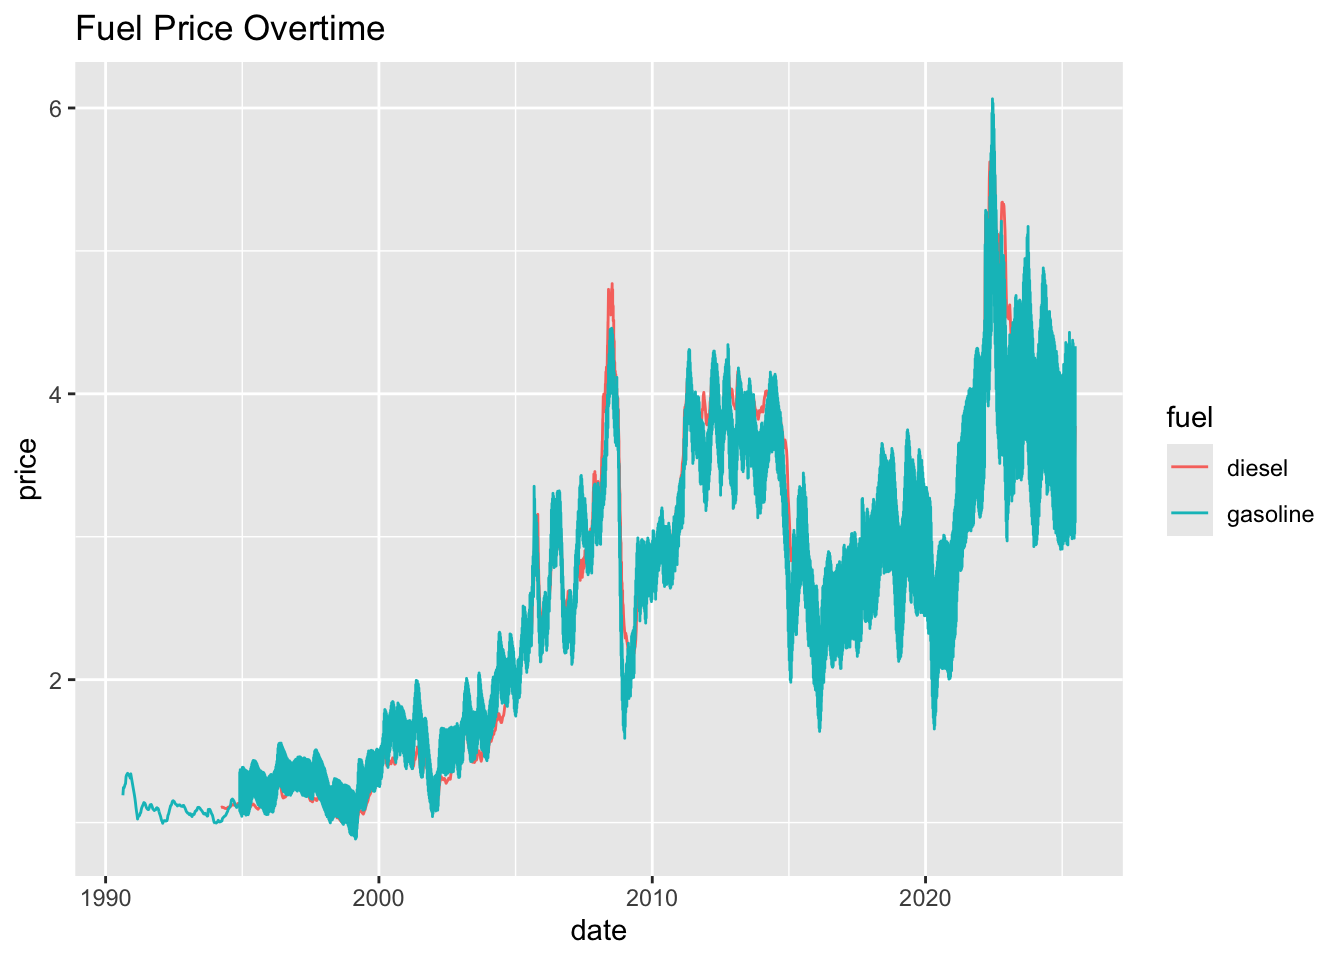
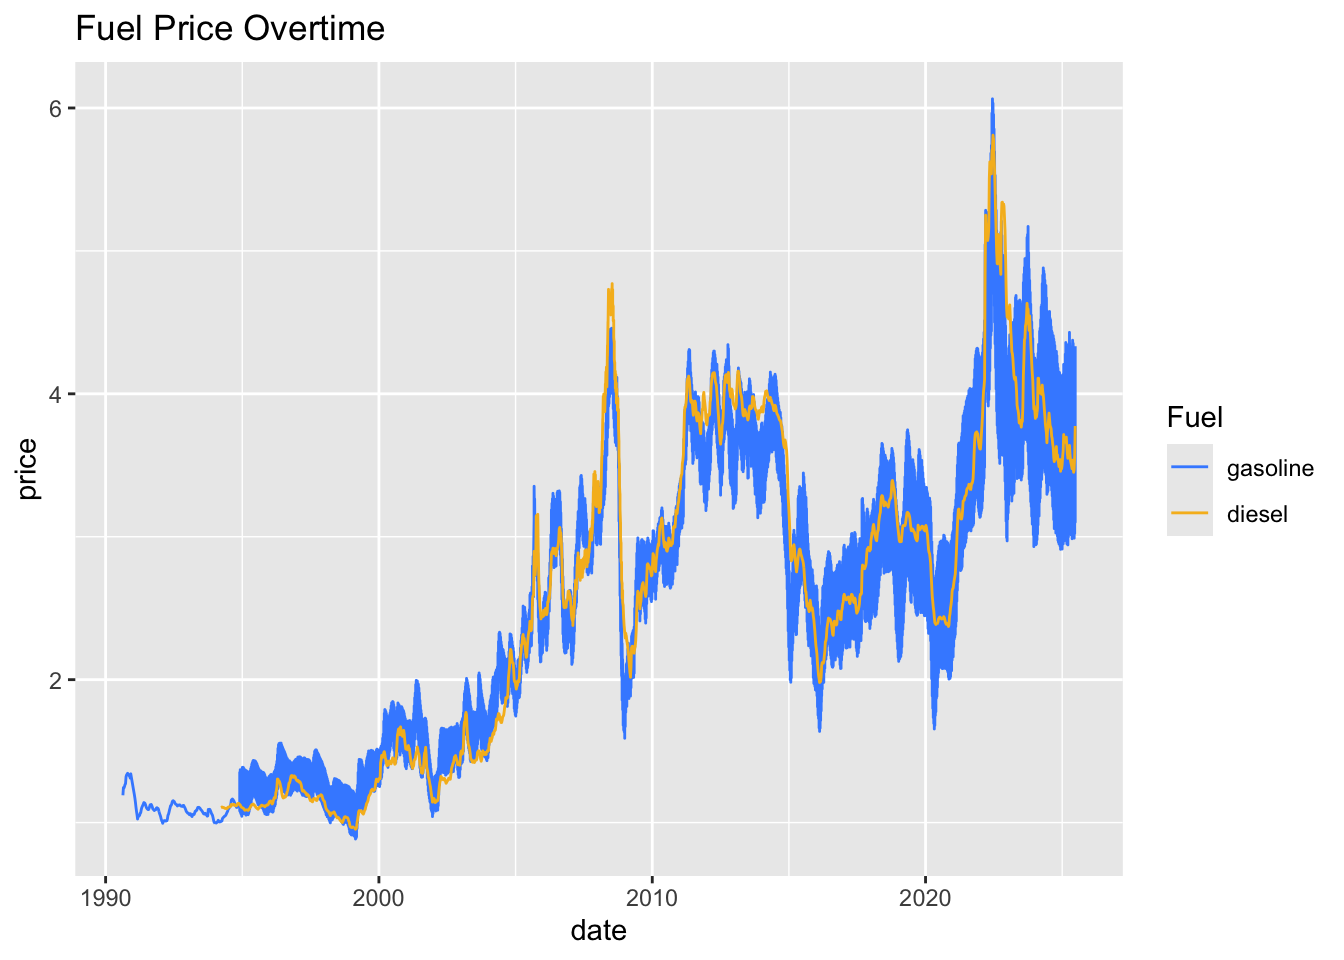
gas fixed

diff --git a/docs/gas.html b/docs/gas.html
@@ -168,7 +168,12 @@ pre > code.sourceCode > span > a:first-child::before { text-decoration: underlin
     <h2 id="toc-title">On this page</h2>
    
   <ul>
-  <li><a href="#the-data" id="toc-the-data" class="nav-link active" data-scroll-target="#the-data">The Data</a></li>
+  <li><a href="#the-data" id="toc-the-data" class="nav-link active" data-scroll-target="#the-data">The Data</a>
+  <ul class="collapse">
+  <li><a href="#basic-prices-overtime-comparison" id="toc-basic-prices-overtime-comparison" class="nav-link" data-scroll-target="#basic-prices-overtime-comparison">Basic Prices Overtime Comparison</a></li>
+  <li><a href="#prices-by-fuel-type-grade-and-formulation" id="toc-prices-by-fuel-type-grade-and-formulation" class="nav-link" data-scroll-target="#prices-by-fuel-type-grade-and-formulation">Prices by Fuel Type, Grade, and Formulation</a></li>
+  <li><a href="#price-distribution" id="toc-price-distribution" class="nav-link" data-scroll-target="#price-distribution">Price Distribution</a></li>
+  </ul></li>
   </ul>
 </nav>
     </div>
@@ -216,13 +221,15 @@ pre > code.sourceCode > span > a:first-child::before { text-decoration: underlin
 <p>Retrieved from TidyTuesday:<br>
 https://github.com/rfordatascience/tidytuesday/tree/main/data/2025/2025-07-01</p>
 <p>The data is originally from the U.S. Energy Information Administration (EIA), which publishes average retail gasoline and diesel prices weekly.</p>
-<p>Prices over time basic comparison</p>
+<section id="basic-prices-overtime-comparison" class="level3">
+<h3 class="anchored" data-anchor-id="basic-prices-overtime-comparison">Basic Prices Overtime Comparison</h3>
 <div class="cell">
 <details class="code-fold">
 <summary>Code</summary>
-<div class="code-copy-outer-scaffold"><div class="sourceCode cell-code" id="cb1"><pre class="sourceCode r code-with-copy"><code class="sourceCode r"><span id="cb1-1"><a href="#cb1-1" aria-hidden="true" tabindex="-1"></a><span class="fu">ggplot</span>(weekly_gas, <span class="fu">aes</span>(<span class="at">x=</span>date, <span class="at">y=</span>price, <span class="at">color=</span>fuel)) <span class="sc">+</span></span>
-<span id="cb1-2"><a href="#cb1-2" aria-hidden="true" tabindex="-1"></a>  <span class="fu">geom_line</span>() <span class="sc">+</span> </span>
-<span id="cb1-3"><a href="#cb1-3" aria-hidden="true" tabindex="-1"></a>  <span class="fu">labs</span>(<span class="at">title =</span> <span class="st">"Fuel Price Overtime"</span>)</span></code></pre></div><button title="Copy to Clipboard" class="code-copy-button"><i class="bi"></i></button></div>
+<div class="code-copy-outer-scaffold"><div class="sourceCode cell-code" id="cb1"><pre class="sourceCode r code-with-copy"><code class="sourceCode r"><span id="cb1-1"><a href="#cb1-1" aria-hidden="true" tabindex="-1"></a><span class="fu">ggplot</span>(weekly_gas, <span class="fu">aes</span>(<span class="at">x=</span>date, <span class="at">y=</span>price, <span class="at">color=</span><span class="fu">fct_relevel</span>(fuel, <span class="st">"gasoline"</span>, <span class="st">"diesel"</span>))) <span class="sc">+</span></span>
+<span id="cb1-2"><a href="#cb1-2" aria-hidden="true" tabindex="-1"></a>  <span class="fu">geom_line</span>() <span class="sc">+</span></span>
+<span id="cb1-3"><a href="#cb1-3" aria-hidden="true" tabindex="-1"></a>  <span class="fu">scale_color_manual</span>(<span class="at">values =</span> <span class="fu">c</span>(<span class="st">"gasoline"</span> <span class="ot">=</span> <span class="st">"#438eff"</span>, <span class="st">"diesel"</span> <span class="ot">=</span> <span class="st">"#f6ba21"</span>)) <span class="sc">+</span></span>
+<span id="cb1-4"><a href="#cb1-4" aria-hidden="true" tabindex="-1"></a>  <span class="fu">labs</span>(<span class="at">title =</span> <span class="st">"Fuel Price Overtime"</span>, <span class="at">color =</span> <span class="st">"Fuel"</span>)</span></code></pre></div><button title="Copy to Clipboard" class="code-copy-button"><i class="bi"></i></button></div>
 </details>
 <div class="cell-output-display">
 <div>
@@ -232,22 +239,23 @@ https://github.com/rfordatascience/tidytuesday/tree/main/data/2025/2025-07-01</p
 </div>
 </div>
 </div>
-<div class="cell">
-<details class="code-fold">
-<summary>Code</summary>
-<div class="code-copy-outer-scaffold"><div class="sourceCode cell-code" id="cb2"><pre class="sourceCode r code-with-copy"><code class="sourceCode r"><span id="cb2-1"><a href="#cb2-1" aria-hidden="true" tabindex="-1"></a><span class="fu">ggplot</span>(weekly_gas, <span class="fu">aes</span>(<span class="at">x=</span>date, <span class="at">y=</span>price, <span class="at">color=</span>fuel)) <span class="sc">+</span></span>
-<span id="cb2-2"><a href="#cb2-2" aria-hidden="true" tabindex="-1"></a>  <span class="fu">geom_line</span>() <span class="sc">+</span> </span>
-<span id="cb2-3"><a href="#cb2-3" aria-hidden="true" tabindex="-1"></a>  <span class="fu">facet_wrap</span>(<span class="sc">~</span>fuel) <span class="sc">+</span> </span>
-<span id="cb2-4"><a href="#cb2-4" aria-hidden="true" tabindex="-1"></a>  <span class="fu">labs</span>(<span class="at">title =</span> <span class="st">"Fuel Price Overtime by Fuel"</span>)</span></code></pre></div><button title="Copy to Clipboard" class="code-copy-button"><i class="bi"></i></button></div>
-</details>
-<div class="cell-output-display">
-<div>
-<figure class="figure">
-<p><img src="gas_files/figure-html/unnamed-chunk-3-1.png" class="img-fluid figure-img" width="672"></p>
-</figure>
-</div>
-</div>
-</div>
+<!--
+
+::: {.cell}
+
+```{.r .cell-code}
+ggplot(weekly_gas, aes(x=date, y=price, color=fuel)) +
+  geom_line() + 
+  facet_wrap(~fuel) + 
+  labs(title = "Fuel Price Overtime by Fuel")
+```
+
+::: {.cell-output-display}
+![](gas_files/figure-html/unnamed-chunk-3-1.png){width=672}
+:::
+:::
+
+-->
 <!--
 Prices by Grade (ALL)
 
@@ -281,16 +289,18 @@ ggplot(weekly_gas, aes(x=date, y=price, color=grade)) +
 :::
 
 -->
-<p>Prices by Fuel Type and Grade</p>
+</section>
+<section id="prices-by-fuel-type-grade-and-formulation" class="level3">
+<h3 class="anchored" data-anchor-id="prices-by-fuel-type-grade-and-formulation">Prices by Fuel Type, Grade, and Formulation</h3>
 <div class="cell">
 <details class="code-fold">
 <summary>Code</summary>
-<div class="code-copy-outer-scaffold"><div class="sourceCode cell-code" id="cb3"><pre class="sourceCode r code-with-copy"><code class="sourceCode r"><span id="cb3-1"><a href="#cb3-1" aria-hidden="true" tabindex="-1"></a>weekly_gas <span class="sc">|&gt;</span> </span>
-<span id="cb3-2"><a href="#cb3-2" aria-hidden="true" tabindex="-1"></a>  <span class="fu">filter</span>(fuel <span class="sc">==</span> <span class="st">"gasoline"</span>) <span class="sc">|&gt;</span> </span>
-<span id="cb3-3"><a href="#cb3-3" aria-hidden="true" tabindex="-1"></a>  <span class="fu">ggplot</span>(<span class="fu">aes</span>(<span class="at">x=</span>date, <span class="at">y=</span>price, <span class="at">color=</span>grade)) <span class="sc">+</span></span>
-<span id="cb3-4"><a href="#cb3-4" aria-hidden="true" tabindex="-1"></a>    <span class="fu">geom_line</span>() <span class="sc">+</span> </span>
-<span id="cb3-5"><a href="#cb3-5" aria-hidden="true" tabindex="-1"></a>    <span class="fu">facet_wrap</span>(<span class="sc">~</span>grade) <span class="sc">+</span> </span>
-<span id="cb3-6"><a href="#cb3-6" aria-hidden="true" tabindex="-1"></a>    <span class="fu">labs</span>(<span class="at">title =</span> <span class="st">"Prices for Gasoline"</span>)</span></code></pre></div><button title="Copy to Clipboard" class="code-copy-button"><i class="bi"></i></button></div>
+<div class="code-copy-outer-scaffold"><div class="sourceCode cell-code" id="cb2"><pre class="sourceCode r code-with-copy"><code class="sourceCode r"><span id="cb2-1"><a href="#cb2-1" aria-hidden="true" tabindex="-1"></a>weekly_gas <span class="sc">|&gt;</span> </span>
+<span id="cb2-2"><a href="#cb2-2" aria-hidden="true" tabindex="-1"></a>  <span class="fu">filter</span>(fuel <span class="sc">==</span> <span class="st">"gasoline"</span>) <span class="sc">|&gt;</span> </span>
+<span id="cb2-3"><a href="#cb2-3" aria-hidden="true" tabindex="-1"></a>  <span class="fu">ggplot</span>(<span class="fu">aes</span>(<span class="at">x=</span>date, <span class="at">y=</span>price, <span class="at">color=</span>grade)) <span class="sc">+</span></span>
+<span id="cb2-4"><a href="#cb2-4" aria-hidden="true" tabindex="-1"></a>    <span class="fu">geom_line</span>() <span class="sc">+</span> </span>
+<span id="cb2-5"><a href="#cb2-5" aria-hidden="true" tabindex="-1"></a>    <span class="fu">facet_wrap</span>(<span class="sc">~</span>grade) <span class="sc">+</span> </span>
+<span id="cb2-6"><a href="#cb2-6" aria-hidden="true" tabindex="-1"></a>    <span class="fu">labs</span>(<span class="at">title =</span> <span class="st">"Prices for Gasoline by Grade"</span>)</span></code></pre></div><button title="Copy to Clipboard" class="code-copy-button"><i class="bi"></i></button></div>
 </details>
 <div class="cell-output-display">
 <div>
@@ -303,12 +313,12 @@ ggplot(weekly_gas, aes(x=date, y=price, color=grade)) +
 <div class="cell">
 <details class="code-fold">
 <summary>Code</summary>
-<div class="code-copy-outer-scaffold"><div class="sourceCode cell-code" id="cb4"><pre class="sourceCode r code-with-copy"><code class="sourceCode r"><span id="cb4-1"><a href="#cb4-1" aria-hidden="true" tabindex="-1"></a>weekly_gas<span class="sc">|&gt;</span> </span>
-<span id="cb4-2"><a href="#cb4-2" aria-hidden="true" tabindex="-1"></a>  <span class="fu">filter</span>(fuel <span class="sc">==</span> <span class="st">"diesel"</span>) <span class="sc">|&gt;</span> </span>
-<span id="cb4-3"><a href="#cb4-3" aria-hidden="true" tabindex="-1"></a>  <span class="fu">ggplot</span>( <span class="fu">aes</span>(<span class="at">x=</span>date, <span class="at">y=</span>price, <span class="at">color=</span>grade)) <span class="sc">+</span></span>
-<span id="cb4-4"><a href="#cb4-4" aria-hidden="true" tabindex="-1"></a>    <span class="fu">geom_line</span>() <span class="sc">+</span> </span>
-<span id="cb4-5"><a href="#cb4-5" aria-hidden="true" tabindex="-1"></a>    <span class="fu">facet_wrap</span>(<span class="sc">~</span>grade) <span class="sc">+</span> </span>
-<span id="cb4-6"><a href="#cb4-6" aria-hidden="true" tabindex="-1"></a>    <span class="fu">labs</span>(<span class="at">title =</span> <span class="st">"Prices for Diesel"</span>)</span></code></pre></div><button title="Copy to Clipboard" class="code-copy-button"><i class="bi"></i></button></div>
+<div class="code-copy-outer-scaffold"><div class="sourceCode cell-code" id="cb3"><pre class="sourceCode r code-with-copy"><code class="sourceCode r"><span id="cb3-1"><a href="#cb3-1" aria-hidden="true" tabindex="-1"></a>weekly_gas<span class="sc">|&gt;</span> </span>
+<span id="cb3-2"><a href="#cb3-2" aria-hidden="true" tabindex="-1"></a>  <span class="fu">filter</span>(fuel <span class="sc">==</span> <span class="st">"diesel"</span>) <span class="sc">|&gt;</span> </span>
+<span id="cb3-3"><a href="#cb3-3" aria-hidden="true" tabindex="-1"></a>  <span class="fu">ggplot</span>( <span class="fu">aes</span>(<span class="at">x=</span>date, <span class="at">y=</span>price, <span class="at">color=</span>grade)) <span class="sc">+</span></span>
+<span id="cb3-4"><a href="#cb3-4" aria-hidden="true" tabindex="-1"></a>    <span class="fu">geom_line</span>() <span class="sc">+</span> </span>
+<span id="cb3-5"><a href="#cb3-5" aria-hidden="true" tabindex="-1"></a>    <span class="fu">facet_wrap</span>(<span class="sc">~</span>grade) <span class="sc">+</span> </span>
+<span id="cb3-6"><a href="#cb3-6" aria-hidden="true" tabindex="-1"></a>    <span class="fu">labs</span>(<span class="at">title =</span> <span class="st">"Prices for Diesel by Grade"</span>)</span></code></pre></div><button title="Copy to Clipboard" class="code-copy-button"><i class="bi"></i></button></div>
 </details>
 <div class="cell-output-display">
 <div>
@@ -318,17 +328,16 @@ ggplot(weekly_gas, aes(x=date, y=price, color=grade)) +
 </div>
 </div>
 </div>
-<p>Prices by Formulation of Gasoline</p>
 <div class="cell">
 <details class="code-fold">
 <summary>Code</summary>
-<div class="code-copy-outer-scaffold"><div class="sourceCode cell-code" id="cb5"><pre class="sourceCode r code-with-copy"><code class="sourceCode r"><span id="cb5-1"><a href="#cb5-1" aria-hidden="true" tabindex="-1"></a>weekly_gas <span class="sc">|&gt;</span> </span>
-<span id="cb5-2"><a href="#cb5-2" aria-hidden="true" tabindex="-1"></a>  <span class="fu">filter</span>(fuel <span class="sc">==</span> <span class="st">"gasoline"</span>) <span class="sc">|&gt;</span> </span>
-<span id="cb5-3"><a href="#cb5-3" aria-hidden="true" tabindex="-1"></a>  <span class="fu">ggplot</span>(<span class="fu">aes</span>(<span class="at">x=</span>date, <span class="at">y=</span>price, <span class="at">color=</span>formulation)) <span class="sc">+</span></span>
-<span id="cb5-4"><a href="#cb5-4" aria-hidden="true" tabindex="-1"></a>    <span class="fu">geom_line</span>() <span class="sc">+</span> </span>
-<span id="cb5-5"><a href="#cb5-5" aria-hidden="true" tabindex="-1"></a>    <span class="fu">facet_wrap</span>(<span class="sc">~</span>grade) <span class="sc">+</span> </span>
-<span id="cb5-6"><a href="#cb5-6" aria-hidden="true" tabindex="-1"></a>    <span class="fu">labs</span>(</span>
-<span id="cb5-7"><a href="#cb5-7" aria-hidden="true" tabindex="-1"></a>    <span class="at">title =</span> <span class="st">"Prices by Formulation"</span>, <span class="at">x =</span> <span class="st">"Date"</span>, <span class="at">y=</span> <span class="st">"Price"</span>,  <span class="at">color =</span> <span class="st">"Formulation"</span> )</span></code></pre></div><button title="Copy to Clipboard" class="code-copy-button"><i class="bi"></i></button></div>
+<div class="code-copy-outer-scaffold"><div class="sourceCode cell-code" id="cb4"><pre class="sourceCode r code-with-copy"><code class="sourceCode r"><span id="cb4-1"><a href="#cb4-1" aria-hidden="true" tabindex="-1"></a>weekly_gas <span class="sc">|&gt;</span> </span>
+<span id="cb4-2"><a href="#cb4-2" aria-hidden="true" tabindex="-1"></a>  <span class="fu">filter</span>(fuel <span class="sc">==</span> <span class="st">"gasoline"</span>) <span class="sc">|&gt;</span> </span>
+<span id="cb4-3"><a href="#cb4-3" aria-hidden="true" tabindex="-1"></a>  <span class="fu">ggplot</span>(<span class="fu">aes</span>(<span class="at">x=</span>date, <span class="at">y=</span>price, <span class="at">color=</span>formulation)) <span class="sc">+</span></span>
+<span id="cb4-4"><a href="#cb4-4" aria-hidden="true" tabindex="-1"></a>    <span class="fu">geom_line</span>() <span class="sc">+</span> </span>
+<span id="cb4-5"><a href="#cb4-5" aria-hidden="true" tabindex="-1"></a>    <span class="fu">facet_wrap</span>(<span class="sc">~</span>grade) <span class="sc">+</span> </span>
+<span id="cb4-6"><a href="#cb4-6" aria-hidden="true" tabindex="-1"></a>    <span class="fu">labs</span>(</span>
+<span id="cb4-7"><a href="#cb4-7" aria-hidden="true" tabindex="-1"></a>    <span class="at">title =</span> <span class="st">"Prices by Formulation"</span>, <span class="at">x =</span> <span class="st">"Date"</span>, <span class="at">y=</span> <span class="st">"Price"</span>,  <span class="at">color =</span> <span class="st">"Formulation"</span> )</span></code></pre></div><button title="Copy to Clipboard" class="code-copy-button"><i class="bi"></i></button></div>
 </details>
 <div class="cell-output-display">
 <div>
@@ -338,17 +347,16 @@ ggplot(weekly_gas, aes(x=date, y=price, color=grade)) +
 </div>
 </div>
 </div>
-<p>Volatility/Price distribution</p>
+</section>
+<section id="price-distribution" class="level3">
+<h3 class="anchored" data-anchor-id="price-distribution">Price Distribution</h3>
 <div class="cell">
 <details class="code-fold">
 <summary>Code</summary>
-<div class="code-copy-outer-scaffold"><div class="sourceCode cell-code" id="cb6"><pre class="sourceCode r code-with-copy"><code class="sourceCode r"><span id="cb6-1"><a href="#cb6-1" aria-hidden="true" tabindex="-1"></a><span class="fu">ggplot</span>(weekly_gas, <span class="fu">aes</span>(<span class="at">x=</span>price, <span class="at">color =</span> fuel)) <span class="sc">+</span></span>
-<span id="cb6-2"><a href="#cb6-2" aria-hidden="true" tabindex="-1"></a>    <span class="fu">geom_histogram</span>() <span class="sc">+</span> </span>
-<span id="cb6-3"><a href="#cb6-3" aria-hidden="true" tabindex="-1"></a>    <span class="fu">labs</span>(<span class="at">title =</span> <span class="st">"Distribution of Price Changes by Fuel"</span>)</span></code></pre></div><button title="Copy to Clipboard" class="code-copy-button"><i class="bi"></i></button></div>
+<div class="code-copy-outer-scaffold"><div class="sourceCode cell-code" id="cb5"><pre class="sourceCode r code-with-copy"><code class="sourceCode r"><span id="cb5-1"><a href="#cb5-1" aria-hidden="true" tabindex="-1"></a><span class="fu">ggplot</span>(weekly_gas, <span class="fu">aes</span>(<span class="at">x=</span>price, <span class="at">fill =</span> <span class="fu">fct_relevel</span>(fuel, <span class="st">"gasoline"</span>, <span class="st">"diesel"</span>))) <span class="sc">+</span></span>
+<span id="cb5-2"><a href="#cb5-2" aria-hidden="true" tabindex="-1"></a>    <span class="fu">geom_histogram</span>(<span class="at">binwidth =</span> <span class="fl">0.1</span>) <span class="sc">+</span> </span>
+<span id="cb5-3"><a href="#cb5-3" aria-hidden="true" tabindex="-1"></a>    <span class="fu">labs</span>(<span class="at">title =</span> <span class="st">"Distribution of Price Changes by Fuel"</span>)</span></code></pre></div><button title="Copy to Clipboard" class="code-copy-button"><i class="bi"></i></button></div>
 </details>
-<div class="cell-output cell-output-stderr">
-<pre><code>`stat_bin()` using `bins = 30`. Pick better value `binwidth`.</code></pre>
-</div>
 <div class="cell-output-display">
 <div>
 <figure class="figure">
@@ -360,10 +368,10 @@ ggplot(weekly_gas, aes(x=date, y=price, color=grade)) +
 <div class="cell">
 <details class="code-fold">
 <summary>Code</summary>
-<div class="code-copy-outer-scaffold"><div class="sourceCode cell-code" id="cb8"><pre class="sourceCode r code-with-copy"><code class="sourceCode r"><span id="cb8-1"><a href="#cb8-1" aria-hidden="true" tabindex="-1"></a><span class="fu">ggplot</span>(weekly_gas, <span class="fu">aes</span>(<span class="at">x=</span>price, <span class="at">color =</span> grade)) <span class="sc">+</span></span>
-<span id="cb8-2"><a href="#cb8-2" aria-hidden="true" tabindex="-1"></a>    <span class="fu">geom_boxplot</span>() <span class="sc">+</span> </span>
-<span id="cb8-3"><a href="#cb8-3" aria-hidden="true" tabindex="-1"></a>    <span class="fu">facet_wrap</span>(<span class="sc">~</span>fuel) <span class="sc">+</span></span>
-<span id="cb8-4"><a href="#cb8-4" aria-hidden="true" tabindex="-1"></a>    <span class="fu">labs</span>(<span class="at">title =</span> <span class="st">"Distribution of Price Changes by Grade"</span>)</span></code></pre></div><button title="Copy to Clipboard" class="code-copy-button"><i class="bi"></i></button></div>
+<div class="code-copy-outer-scaffold"><div class="sourceCode cell-code" id="cb6"><pre class="sourceCode r code-with-copy"><code class="sourceCode r"><span id="cb6-1"><a href="#cb6-1" aria-hidden="true" tabindex="-1"></a><span class="fu">ggplot</span>(weekly_gas, <span class="fu">aes</span>(<span class="at">x=</span>price, <span class="at">color =</span> grade)) <span class="sc">+</span></span>
+<span id="cb6-2"><a href="#cb6-2" aria-hidden="true" tabindex="-1"></a>    <span class="fu">geom_boxplot</span>() <span class="sc">+</span> </span>
+<span id="cb6-3"><a href="#cb6-3" aria-hidden="true" tabindex="-1"></a>    <span class="fu">facet_wrap</span>(<span class="sc">~</span>fuel) <span class="sc">+</span></span>
+<span id="cb6-4"><a href="#cb6-4" aria-hidden="true" tabindex="-1"></a>    <span class="fu">labs</span>(<span class="at">title =</span> <span class="st">"Distribution of Price Changes by Grade"</span>)</span></code></pre></div><button title="Copy to Clipboard" class="code-copy-button"><i class="bi"></i></button></div>
 </details>
 <div class="cell-output-display">
 <div>
@@ -375,6 +383,7 @@ ggplot(weekly_gas, aes(x=date, y=price, color=grade)) +
 </div>
 
 
+</section>
 </section>
 
 </main> <!-- /main -->
